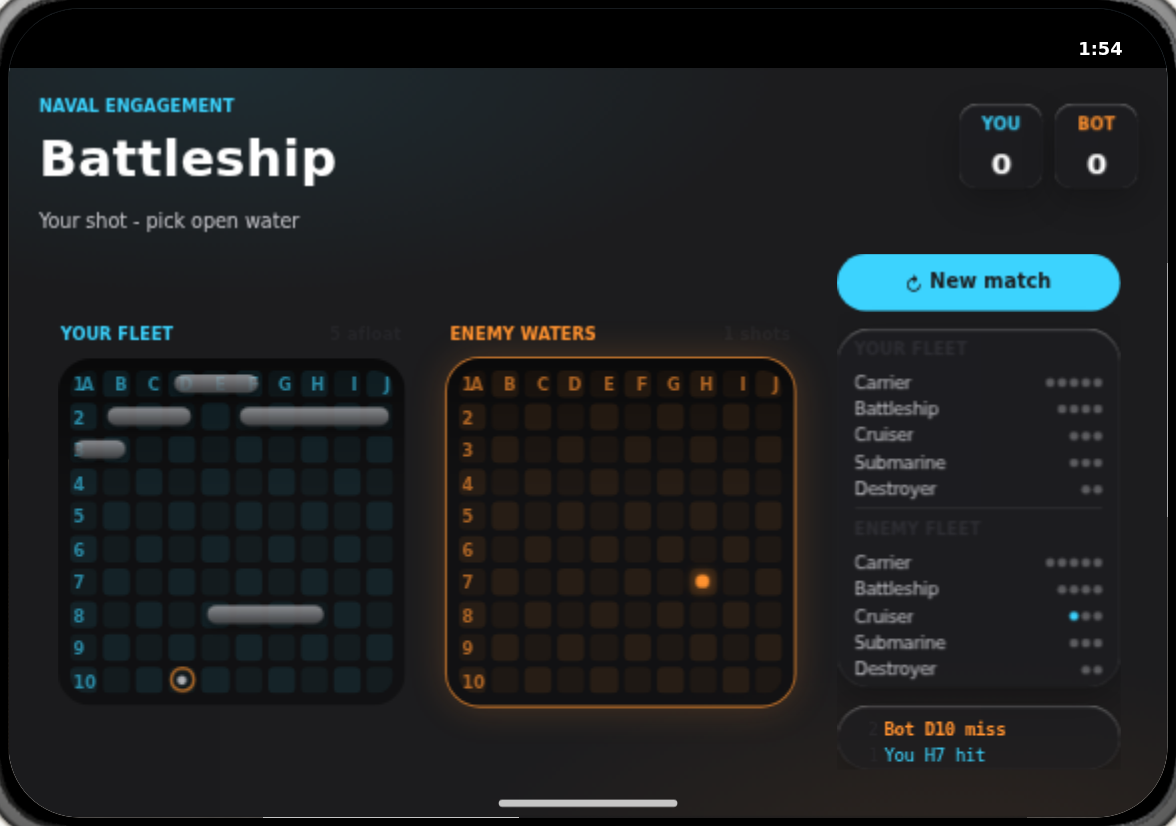
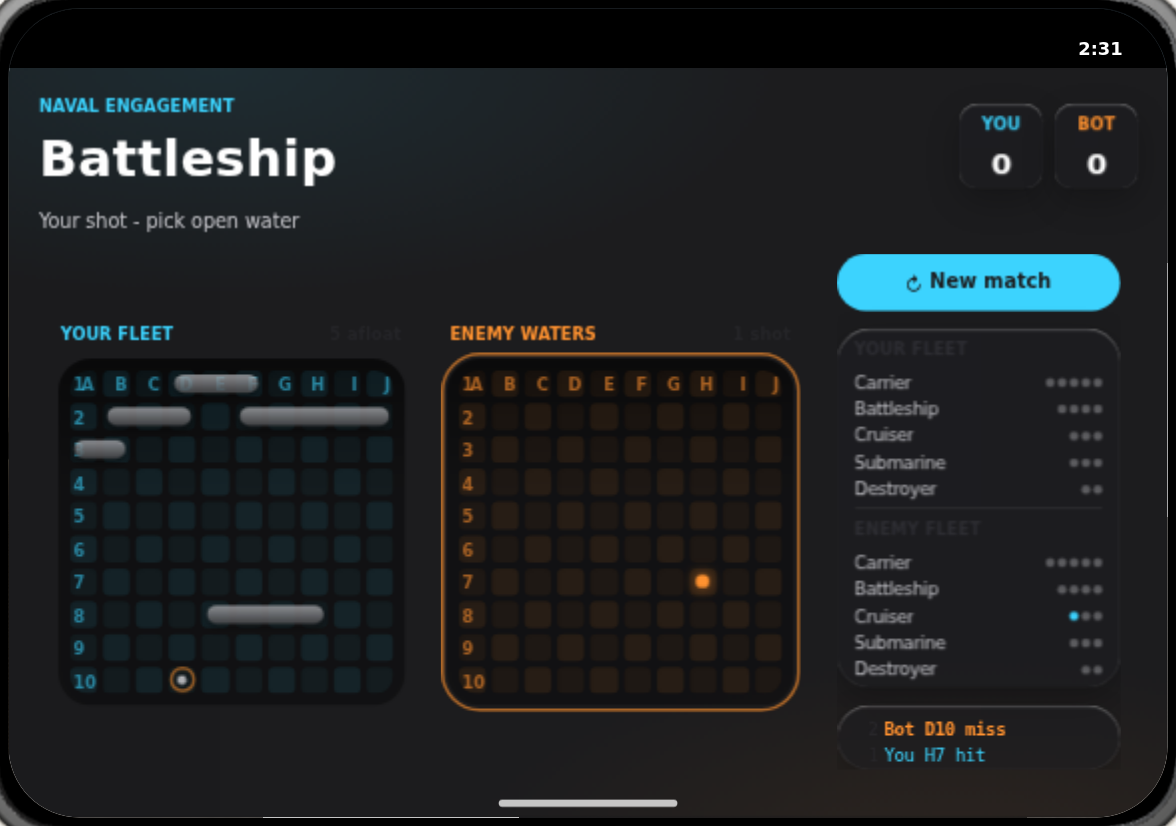
battleship: stroke ring for the live board, rim peg, 44pt cover seg
- boardPlace/boardFire drop hand-authored halos for a 2px outline in the
  side's hue (transparent resting state, outline-color crossfade)
- pegMiss trades its custom inset hairline for the rim token
- cover segment buttons reach the 44pt tap target without clipping the log
- shot counters pluralize

diff --git a/community-apps/battleship/styles.ts b/community-apps/battleship/styles.ts
@@ -237,7 +237,13 @@ export const styles = stylex.create({
     backgroundColor: `color-mix(in srgb, ${colors.black} 36%, transparent)`,
     backgroundImage: `linear-gradient(180deg,color-mix(in srgb, ${colors.black} 42%, transparent),transparent 38%)`,
     flexShrink: 0,
-    transitionProperty: 'box-shadow',
+    // The actionable well strokes in its side's hue: where your next move
+    // belongs. Always-on transparent outline so the cue fades, not pops.
+    outlineStyle: 'solid',
+    outlineWidth: space.xxs,
+    outlineOffset: space.xxs,
+    outlineColor: 'transparent',
+    transitionProperty: 'outline-color',
     transitionDuration: '.28s',
     transitionTimingFunction: easing.inOut,
     animationName: { default: boardIn, [reduce]: 'none' },
@@ -245,13 +251,8 @@ export const styles = stylex.create({
     animationTimingFunction: easing.spring,
     animationFillMode: 'both'
   },
-  // The actionable well glows in its side's hue: where your next move belongs.
-  boardPlace: {
-    boxShadow: `0 0 0 1.5px color-mix(in srgb, ${colors.cyanDark} 55%, transparent),0 0 26px color-mix(in srgb, ${colors.cyanDark} 20%, transparent)`
-  },
-  boardFire: {
-    boxShadow: `0 0 0 1.5px color-mix(in srgb, ${colors.orangeDark} 60%, transparent),0 0 26px color-mix(in srgb, ${colors.orangeDark} 22%, transparent)`
-  },
+  boardPlace: { outlineColor: `color-mix(in srgb, ${colors.cyanDark} 60%, transparent)` },
+  boardFire: { outlineColor: `color-mix(in srgb, ${colors.orangeDark} 65%, transparent)` },
   // Stagger the second well's entrance so the two boards cascade, not pop.
   boardDelay: { animationDelay: '.06s' },
   grid: {
@@ -369,7 +370,8 @@ export const styles = stylex.create({
   },
   pegMiss: {
     backgroundColor: `color-mix(in srgb, ${colors.grey3} 88%, transparent)`,
-    boxShadow: `inset 0 0 0 1px color-mix(in srgb, ${colors.white} 30%, transparent),0 1px 2px color-mix(in srgb, ${colors.black} 40%, transparent)`
+    // The one hairline the design allows: rim, not a custom shadow.
+    boxShadow: shadow.rim
   },
   pegHit: {
     backgroundColor: colors.orangeDark,
@@ -501,7 +503,9 @@ export const styles = stylex.create({
   segBtn: {
     flexGrow: 1,
     minWidth: 0,
-    height: space.xxxl,
+    // 44 pt: the cover's board switch is a primary control, so it gets the
+    // full-comfort tap target, not the denser desktop segment height.
+    height: 44,
     paddingInline: space.md,
     borderWidth: 0,
     borderRadius: radius.pill,

diff --git a/community-apps/battleship/main.tsx b/community-apps/battleship/main.tsx
@@ -656,7 +656,9 @@ function Game() {
           <div {...stylex.props(styles.panel)}>
             <div {...stylex.props(styles.panelHead)}>
               <span {...stylex.props(styles.panelTitle, styles.panelTitleEnemy)}>Enemy waters</span>
-              <span {...stylex.props(styles.panelMeta)}>{d.yourShots.size} shots</span>
+              <span {...stylex.props(styles.panelMeta)}>
+                {d.yourShots.size} shot{d.yourShots.size === 1 ? '' : 's'}
+              </span>
             </div>
             {targetBoard}
           </div>
@@ -703,7 +705,7 @@ function Game() {
               {d.phase === 'won' ? 'Enemy fleet destroyed' : 'Fleet sunk'}
             </span>
             <span {...stylex.props(styles.resultSub)}>
-              {d.yourShots.size} shots fired, {d.yourHits.size} hits
+              {d.yourShots.size} shot{d.yourShots.size === 1 ? '' : 's'} fired, {d.yourHits.size} hits
             </span>
           </div>
           {wide && (
